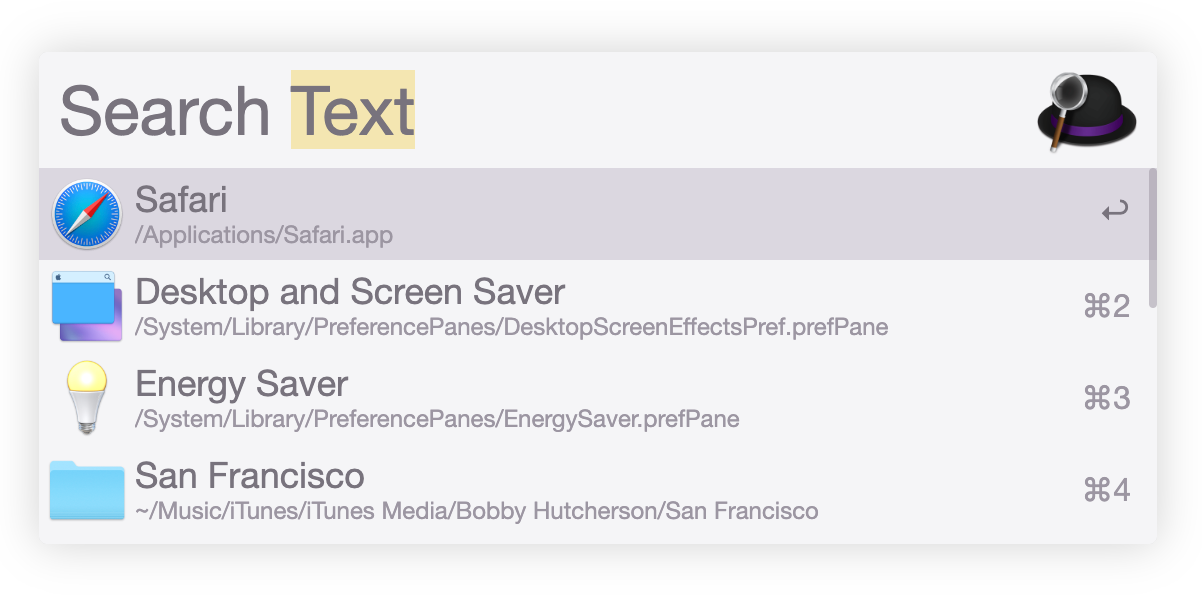
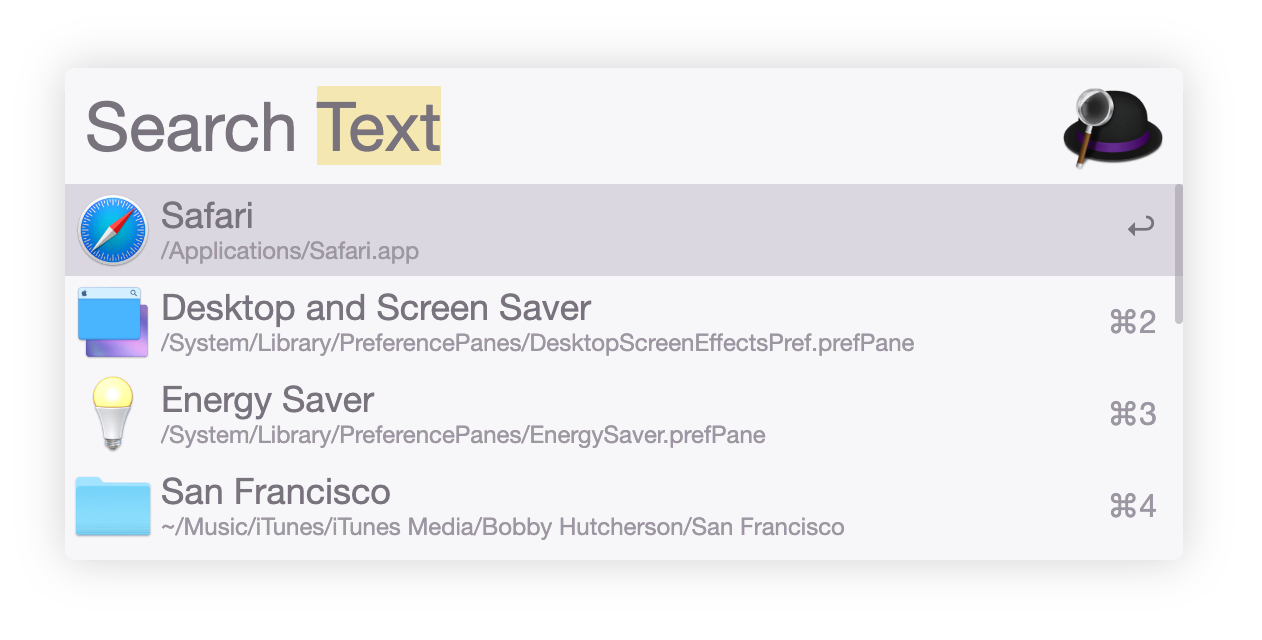
Alfred light: Fix window background color

diff --git a/light/Alfred/Readme.md b/light/Alfred/Readme.md
@@ -1,10 +1,10 @@
 # Squirrelsong Light Theme for [Alfred](https://www.alfredapp.com/)
 
-![Squirrelsong Light](https://github.com/sapegin/squirrelsong/raw/master/light/Alfred/screenshot.png)
+![Squirrelsong Light](screenshot.png)
 
 ## Installation from Alfredapp.com
 
-[Follow the instructions at Alfredapp.com](https://www.alfredapp.com/extras/theme/ayOamLY0jj/)
+[Follow the instructions at Alfredapp.com](https://www.alfredapp.com/extras/theme/5IzAzy3Fuj/)
 
 ## Installation from GitHub
 
